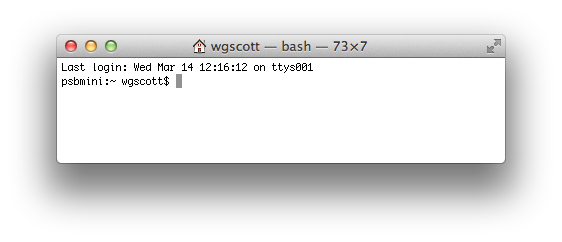
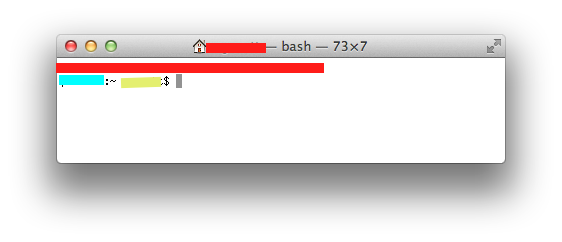
Image

Changed region(s): [[0.0907, 0.2603, 0.5747, 0.376], [0.363, 0.1736, 0.484, 0.2314]]

diff --git a/README.md b/README.md
@@ -3,6 +3,8 @@
 ## Introduction
 This is a bashrc file that I personally use to make life easier and also to make terminal look better. Several commands depend on my local scripts, files etc. This is because currently this is the raw version (0.3 as of 4/14/17). This file **Only works on my computer**. Maybe it can be used as an example i try to comment things I do, this document also entails most of the features. I tried to make the code readable too.
 
+This is for bash only, I know there are more costumizable options and preexisting amazingness like bash-it. But this is mostly personal, windows users SHOO!
+
 Most code will be reproduced here, but there are a ton of comments in the .bashrc file. Whether or not this is independent of computers and all dependecies are mentioned under each feature.
 
 ### Getting this file on your computer
@@ -23,3 +25,4 @@ Prompt is the line that follows you with each command. Looks different on each s
    
 ![$](/img/def_term.png)
 
+Just open terminal and you will see it. 
